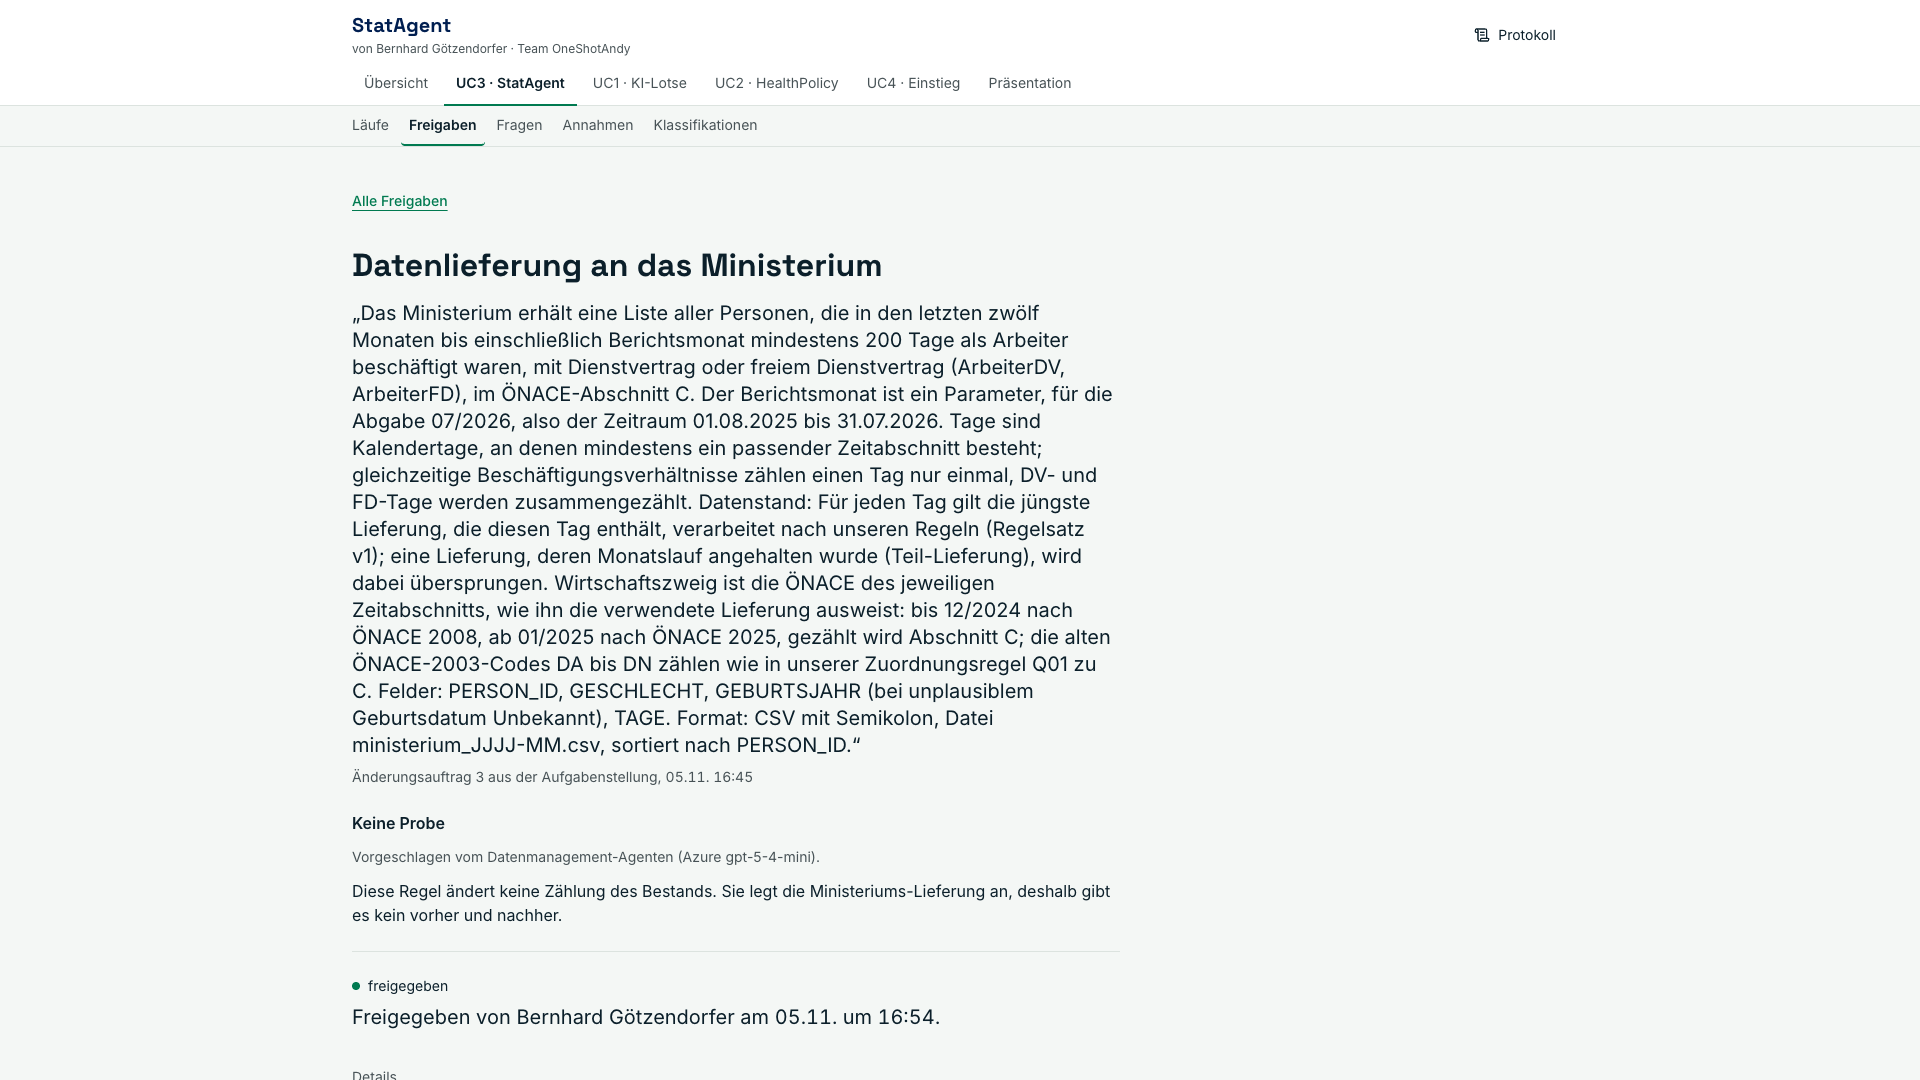
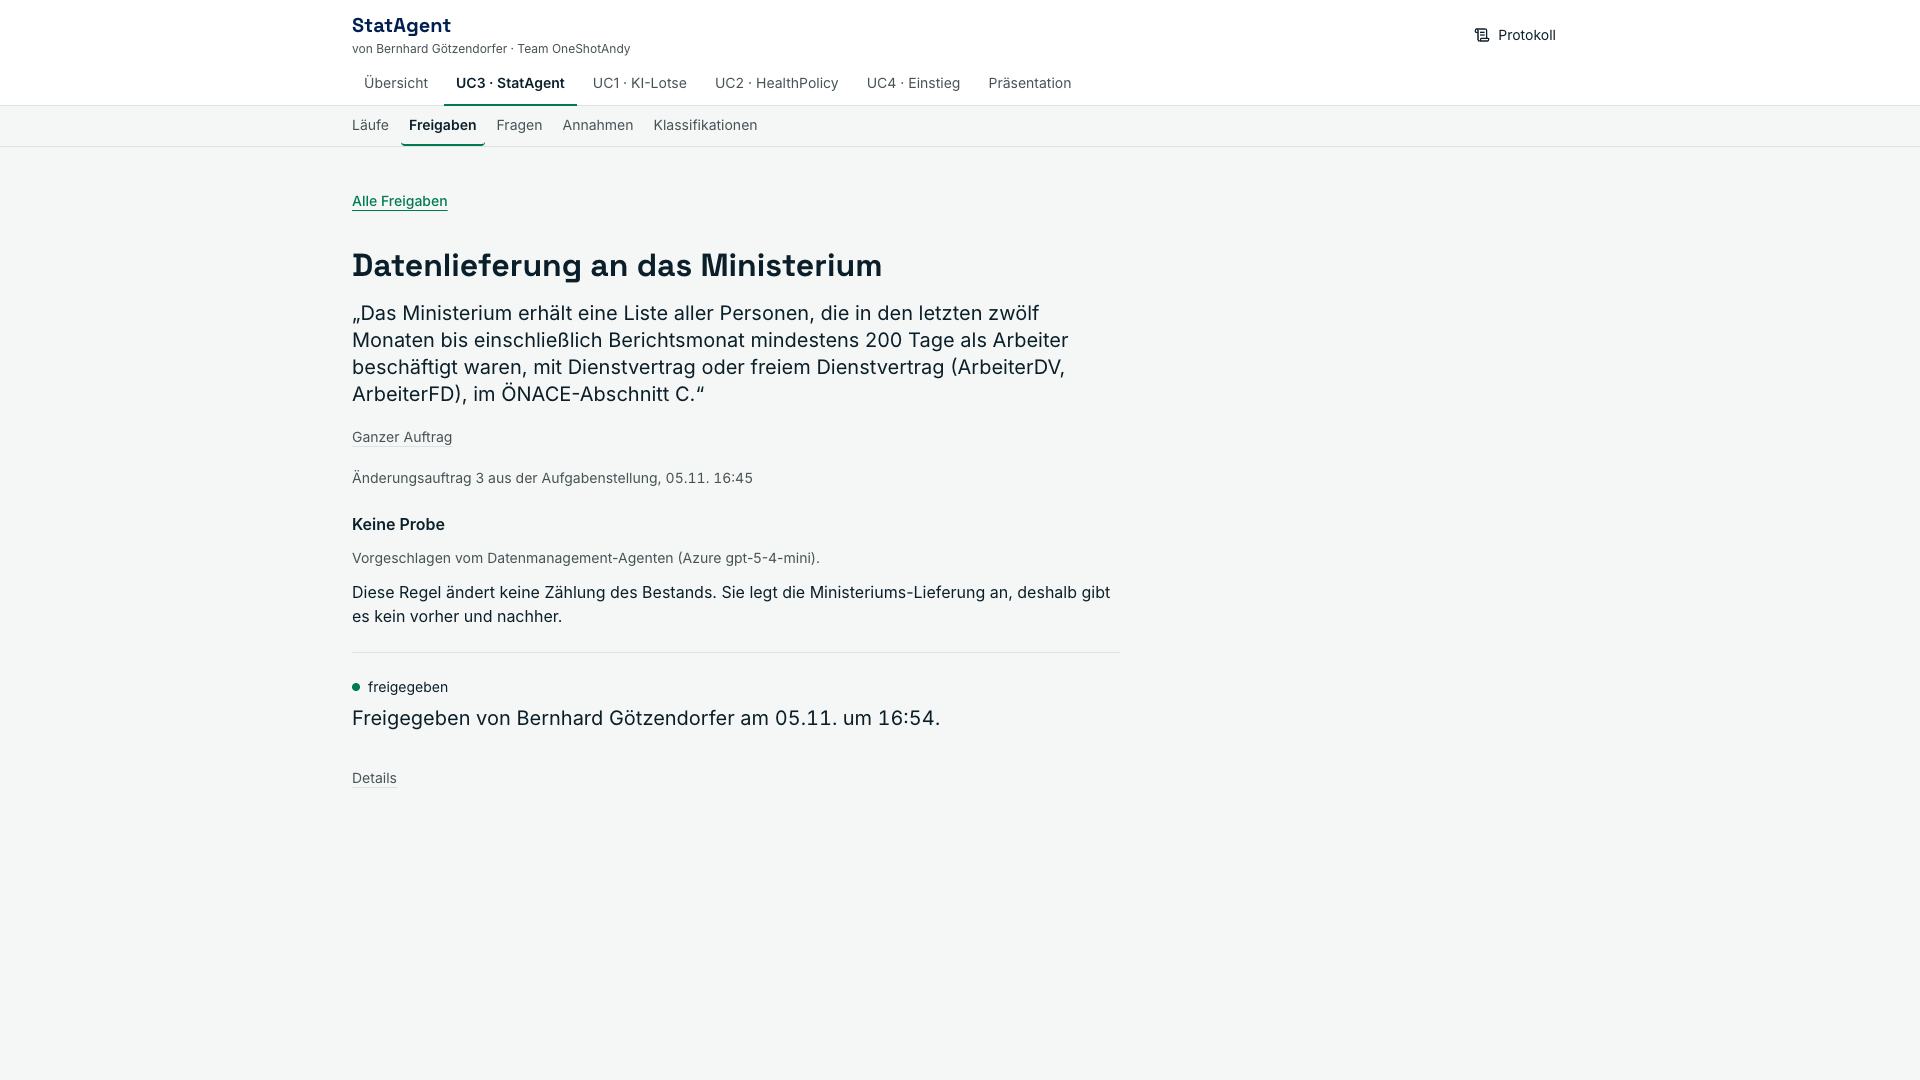
docs(e5): SC10 und SC12 nach !273 und !278 von live (#141)

Changed region(s): [[0.1875, 0.3361, 0.5938, 0.8556], [0.1875, 0.8861, 0.4688, 0.9472]]

diff --git a/docs/praesentation/screens-manifest.md b/docs/praesentation/screens-manifest.md
@@ -14,9 +14,9 @@ Je Bild stehen Herkunft (Route, Commit, Lauf) und Art (live, Testdaten, Aufzeich
 | SC07 | Qualitätsbericht Oktober 2025, Monat angehalten | 3 | ja | 1920 | 1080 | `aa4ea228e3452768`[^SC07] | /uc3/berichte/2025-10 | fd936b3 | Online-Demo, Stand 05.11.2026 | live | 2026-11-05T22:11+01:00 |
 | SC08 | Regel R5_alter als Daten | 8 | ja | 1920 | 1080 | `cdbfac747cf62de2`[^SC08] | /uc3/berichte/regeln | fd936b3 | Online-Demo, Stand 05.11.2026 | live | 2026-11-05T22:11+01:00 |
 | SC09 | Übersicht: drei Use Cases, ein Kern | 2 | ja | 1920 | 1080 | `16719f54a2b32a07`[^SC09] | / | fd936b3 | Online-Demo, Stand 05.11.2026 | live | 2026-11-05T22:11+01:00 |
-| SC10 | Erledigte Freigabe mit Name und Wirkung | 10 | ja | 1920 | 1080 | `5a0035f8ca340db4`[^SC10] | /uc3/freigaben/26 | fd936b3 | Online-Demo, Stand 05.11.2026 | live | 2026-11-05T22:11+01:00 |
+| SC10 | Erledigte Freigabe mit Name und Wirkung | 10 | ja | 1920 | 1080 | `3acf913edaa03264`[^SC10] | /uc3/freigaben/26 | 809da6d | Online-Demo, Stand 06.11.2026 | live | 2026-11-06T03:05+01:00 |
 | SC11 | Gemeinsamer Einstieg mit der Wien-Frage: drei Antworten, 7.498 mit Beleg | 9 | ja | 1920 | 1080 | `bbc601eacc873fa9`[^SC11] | /uc4 | 11b5ff5 | Online-Demo, Stand 05.11.2026 | live | 2026-11-05T23:11+01:00 |
-| SC12 | Agent-Vorschlag mit Diff vor der Freigabe | 4 | ja | 1920 | 1080 | `4da0590773104b52`[^SC12] | /uc3/freigaben/24 | fd936b3 | Online-Demo, Stand 05.11.2026 | live | 2026-11-05T22:11+01:00 |
+| SC12 | Agent-Vorschlag mit Diff vor der Freigabe | 4 | ja | 1920 | 1080 | `9a9c59fa9eadebad`[^SC12] | /uc3/freigaben/24 | 809da6d | Online-Demo, Stand 06.11.2026 | live | 2026-11-06T03:05+01:00 |
 
 Stand: 12/12 vorhanden, 12/12 gültig
 
@@ -29,6 +29,6 @@ Stand: 12/12 vorhanden, 12/12 gültig
[8 lines of base64/hex data omitted]

diff --git a/docs/praesentation/screens-sichtpruefung.md b/docs/praesentation/screens-sichtpruefung.md
@@ -13,9 +13,9 @@ Jedes Bild wird von einer zweiten Person oder einem unabhängigen Prüfer angese
 | SC07 | Agent UI-Regie, nicht Mensch | 2026-11-05 | nein | nein, Daten synthetisch laut Aufgabe | Geprüft bei 1000 px Breite, Kleinstschrift nicht lesbar geprüft | ok |
 | SC08 | Agent UI-Regie, nicht Mensch | 2026-11-05 | nein | nein, Daten synthetisch laut Aufgabe | Geprüft bei 1000 px Breite, Kleinstschrift nicht lesbar geprüft | ok |
 | SC09 | Agent UI-Regie, nicht Mensch | 2026-11-05 | nein | nein, Daten synthetisch laut Aufgabe | Geprüft bei 1000 px Breite, Kleinstschrift nicht lesbar geprüft | ok |
-| SC10 | Agent UI-Regie, nicht Mensch | 2026-11-05 | nein | nein, Daten synthetisch laut Aufgabe | Geprüft bei 1000 px Breite, Kleinstschrift nicht lesbar geprüft | ok |
+| SC10 | Agent UI-Regie, nicht Mensch | 2026-11-06 | nein | nein, Daten synthetisch laut Aufgabe | Neu aufgenommen 06.11.2026 03:05 auf main 809da6d, Auftrag gekürzt, „Ganzer Auftrag“ darunter, Zahlen ohne Scrollen sichtbar. Mobil-Bild nicht angesehen | ok |
 | SC11 | Agent UI-Regie, nicht Mensch | 2026-11-05 | nein | nein, Daten synthetisch laut Aufgabe | Neu aufgenommen 05.11.2026 23:11 auf main 11b5ff5. Desktop bei 1100 px angesehen. Mobil-Bild nicht angesehen | ok |
-| SC12 | Agent UI-Regie, nicht Mensch | 2026-11-05 | nein | nein, Daten synthetisch laut Aufgabe | Geprüft bei 1000 px Breite, Kleinstschrift nicht lesbar geprüft | ok |
+| SC12 | Agent UI-Regie, nicht Mensch | 2026-11-06 | nein | nein, Daten synthetisch laut Aufgabe | Neu aufgenommen 06.11.2026 03:05 auf main 809da6d, Auftrag gekürzt, „Ganzer Auftrag“ darunter, Zahlen ohne Scrollen sichtbar. Mobil-Bild nicht angesehen | ok |
 
 Offene Befunde: 0
 
